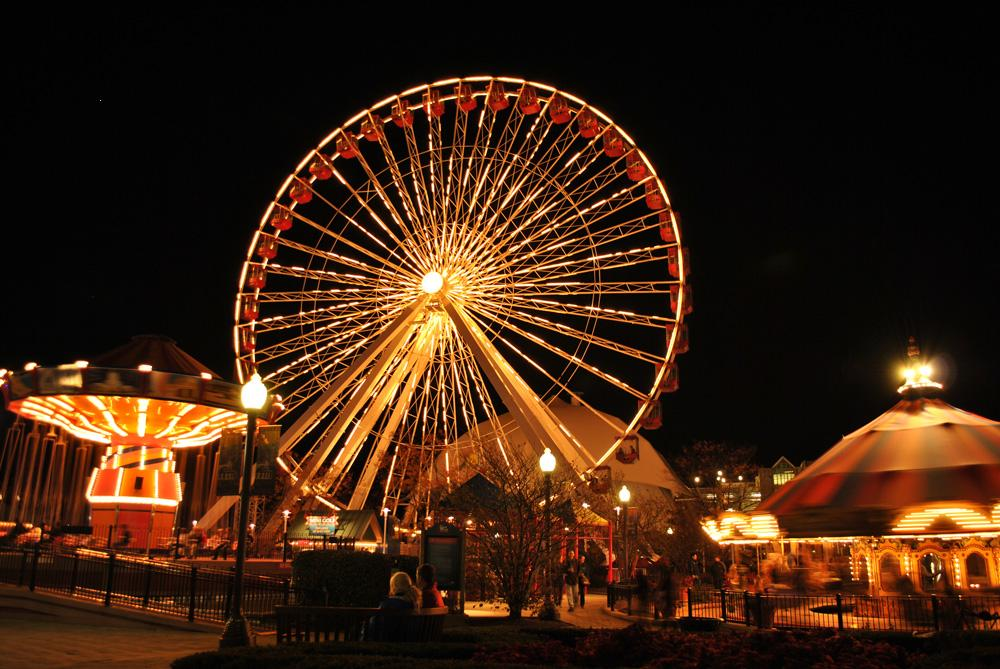
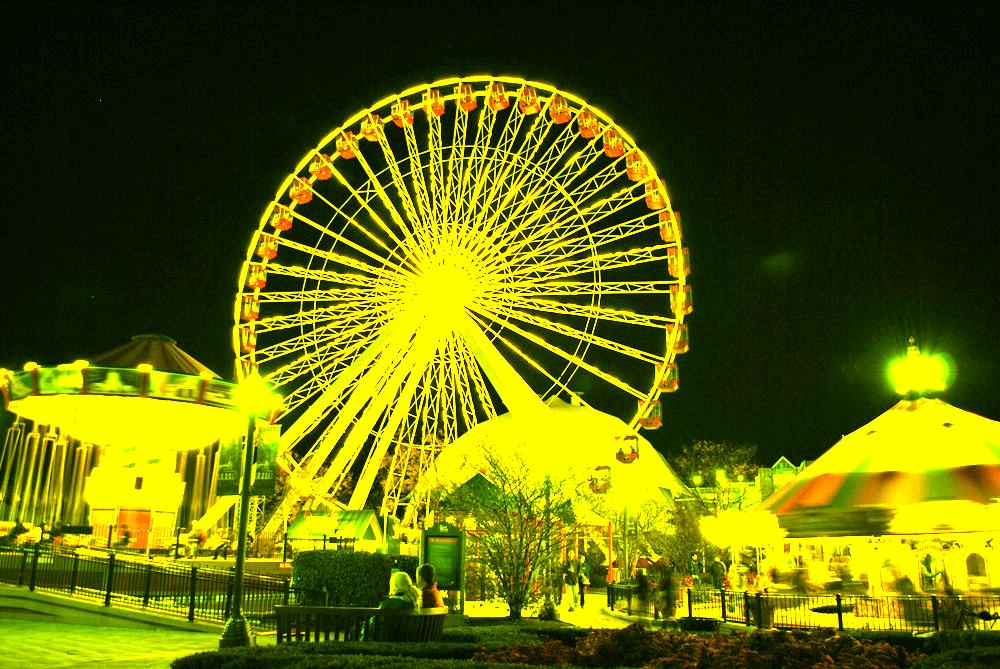
did notes and other stuff

diff --git a/ColorLabs17/TestPicture17.java b/ColorLabs17/TestPicture17.java
@@ -35,8 +35,8 @@ public class TestPicture17
      Picture somepic = new Picture("images/robot.jpg");
 
      //apic.explore();
-     ferris1.explore();
-     somepic.explore();
+     //ferris1.explore();
+     //somepic.explore();
      
      //makes an array of pixels
      Pixel[] pixels;
@@ -55,7 +55,7 @@ public class TestPicture17
     
     spot.setColor(new Color (171, 205, 239));
     System.out.println("spot" + spot);
-    ferris1.explore();
+    //ferris1.explore();
 /*
     pixels[17].setColor(Color.blue);
     spot.setColor(new Color(252,252,252));
@@ -66,12 +66,19 @@ public class TestPicture17
    // loop to access indexes of array or collection
 
     //for each loop spot  is a ?
+    /*int count = 0;
+    int r, g ,b;
     for (Pixel spot3 : pixels) {
-        if (count%10 == 0)
-            spot3.setColor(color.green);
-            
-            count++;
-    }
+        r = spot3.getRed();
+        spot3.setRed(r*2);
+        
+        g = spot3.getGreen();
+        spot3.setGreen(g*5);
+        
+        b = spot3.getBlue();
+        spot3.setBlue(b * (int)Math.random() * 10);
+        count++;
+    }*/
     
 
 
@@ -83,14 +90,13 @@ public class TestPicture17
   * @param none
   * @return none
   */
- /*
-    for (Pixel pixelObj : pixels)
-        {
-            //set the red value of the current pixel to the new value
-           
+ /**/
+    pixels = ferris2.getPixels();
+    for (Pixel ferris2 : pixels) {
+        ferris2.getRed();
 
-        }
-    ferris1.explore();
+    }
+    ferris2.explore();
     
 /**/
  /**

diff --git a/ColorLabs17/SheparFaireyLab.java b/ColorLabs17/SheparFaireyLab.java
@@ -1,10 +1,11 @@
 
 /**
- * Write a description of class SheparFaireyLab here.
+ * destroys a picture of me
  * 
- * @author (your name) 
- * @version (a version number or a date)
+ * @author Alexander Wang
+ * @version 11/9/21
  */
+
 import java.awt.*;
 import java.util.*;
 import java.util.List; // resolves problem with java.awt.List and java.util.List
